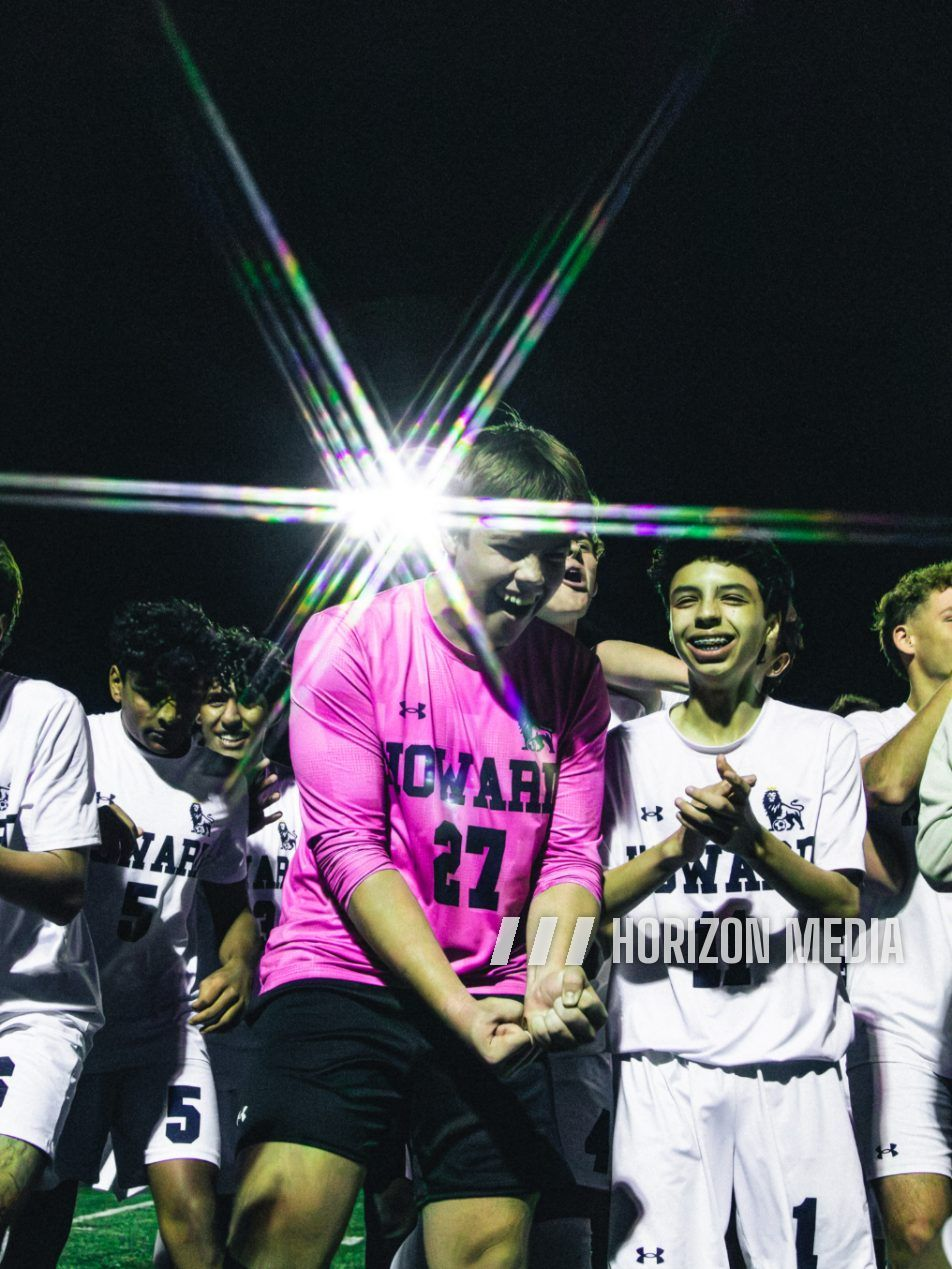
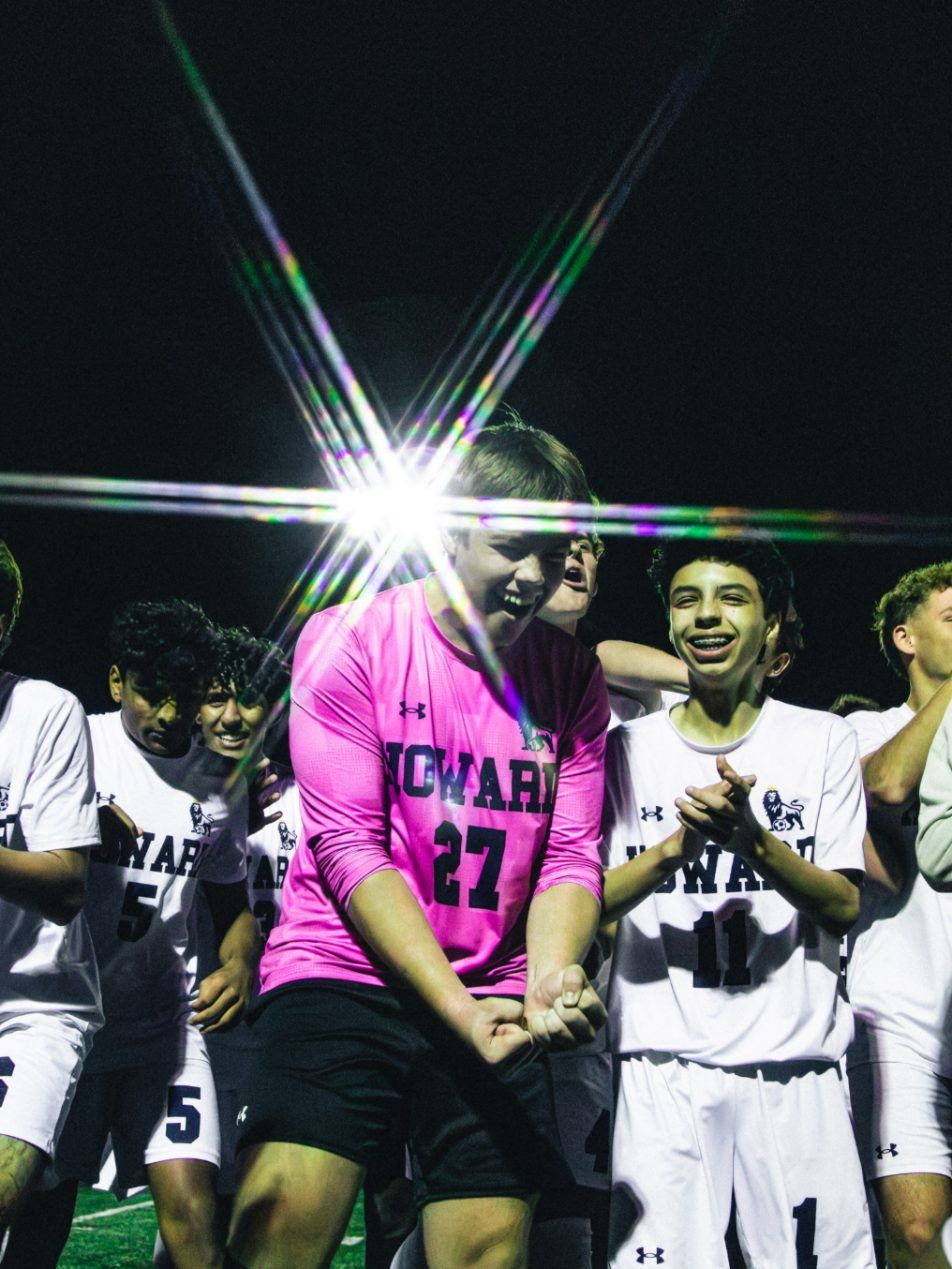
Photos: turn the watermark off
The photo script keeps the watermark as a setting (WATERMARK, now off) and
every copy is remade without it. Originals stay out of the published site
and copies stay web-sized.

Claude-Session: https://claude.ai/code/session_01DKZsuJqVFUU8m5jPJktLAd

Changed region(s): [[0.5179, 0.7069, 0.9443, 0.7683]]

diff --git a/js/protect.js b/js/protect.js
@@ -3,7 +3,7 @@
 // simply turn JavaScript off). Nothing should rely on this file.
 //
 // What actually protects the photos happens before they reach the browser:
-// the site only publishes watermarked, web-sized copies, and the originals
+// the site only publishes web-sized copies, and the originals
 // stay out of the public site (see tools/make_photo_variants.py).
 
 // 1. Saving: blocks the right-click menu and dragging on photos, which stops

diff --git a/tools/make_photo_variants.py b/tools/make_photo_variants.py
@@ -4,9 +4,8 @@
 The originals in photos/ are never published (tools/build-site.sh leaves the
 folder out). For each photo a page uses, this script writes into img/:
 
-  - the web copy the page shows: at most 1200 pixels wide, compressed, with a
-    visible Horizon Media watermark;
-  - the smaller busy-mode copies in img/lite/ and img/saver/, watermarked too;
+  - the web copy the page shows: at most 1200 pixels wide and compressed;
+  - the smaller busy-mode copies in img/lite/ and img/saver/;
   - the list busy mode reads (netlify/guard/photo-variants.js).
 
 Run it from anywhere after adding or replacing a photo:
@@ -42,6 +41,9 @@ SIZES = {
 }
 # A busy-mode copy is only kept if it is at most this fraction of the web copy's size.
 WORTHWHILE = 0.9
+# Whether copies get a visible Horizon Media watermark. Off for now; set it to
+# True and run with --force to add the mark to every photo.
+WATERMARK = False
 # Originals narrower than this (the team's round profile pictures) get no
 # watermark on any copy: it would be unreadable at that size.
 WATERMARK_MIN_WIDTH = 400
@@ -163,7 +165,7 @@ def watermark(image):
 def encode(image, max_width, quality):
     from PIL import Image
 
-    marked = image.width >= WATERMARK_MIN_WIDTH
+    marked = WATERMARK and image.width >= WATERMARK_MIN_WIDTH
     copy = image
     if copy.width > max_width:
         copy = copy.resize((max_width, round(copy.height * max_width / copy.width)), Image.LANCZOS)
@@ -234,7 +236,7 @@ def check(photos, manifest):
 
 
 def main():
-    parser = argparse.ArgumentParser(description="Make the website's watermarked photos from the originals in photos/.")
+    parser = argparse.ArgumentParser(description="Make the website's photos from the originals in photos/.")
     parser.add_argument("--check", action="store_true", help="change nothing; exit 1 if out of date")
     parser.add_argument("--force", action="store_true", help="remake everything")
     args = parser.parse_args()

diff --git a/README.md b/README.md
@@ -37,7 +37,7 @@ The thresholds, the two-minute window, the rate limit and the cookie are in `net
 
 ## Photo protection
 
-`js/protect.js` discourages casual copying. It is not a security control: it cannot stop someone determined, and nothing relies on it. The real protection is that only watermarked, web-sized copies are published (see Photos).
+`js/protect.js` discourages casual copying. It is not a security control: it cannot stop someone determined, and nothing relies on it. The real protection is that only web-sized copies are published (see Photos).
 
 - Right-click and dragging are blocked on photos.
 - On computers, the photos blur when a screenshot shortcut is pressed or the visitor leaves the window, and sharpen when they come back. A note in the corner says so.
@@ -47,11 +47,11 @@ The thresholds, the two-minute window, the rate limit and the cookie are in `net
 
 The website never publishes an original photo. Originals live in `photos/`, which `tools/build-site.sh` leaves out of the published site. Every photo a page shows is a copy made from one of them by `tools/make_photo_variants.py`:
 
-- the web copy in `img/`: at most 1200 pixels wide (480 for grid thumbnails), compressed, with a visible Horizon Media watermark;
-- smaller busy-mode copies in `img/lite/` and `img/saver/`, also watermarked;
+- the web copy in `img/`: at most 1200 pixels wide (480 for grid thumbnails) and compressed;
+- smaller busy-mode copies in `img/lite/` and `img/saver/`;
 - the list busy mode reads, `netlify/guard/photo-variants.js`.
 
-The team's small round profile pictures are not watermarked, because the mark would be unreadable at that size.
+The script can also add a visible Horizon Media watermark to every copy: set `WATERMARK = True` at the top of it and run it with `--force`.
 
 ### Adding or replacing a photo
 
